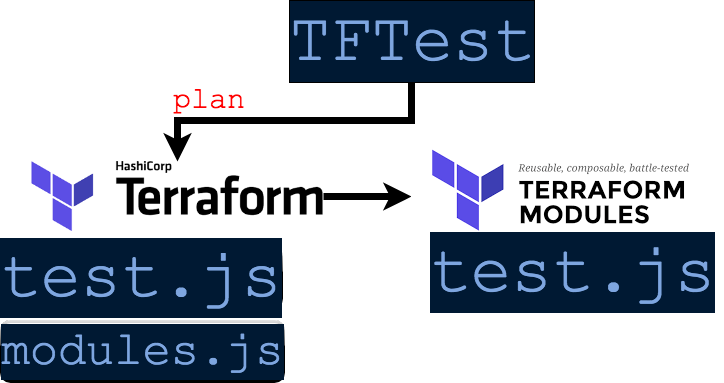
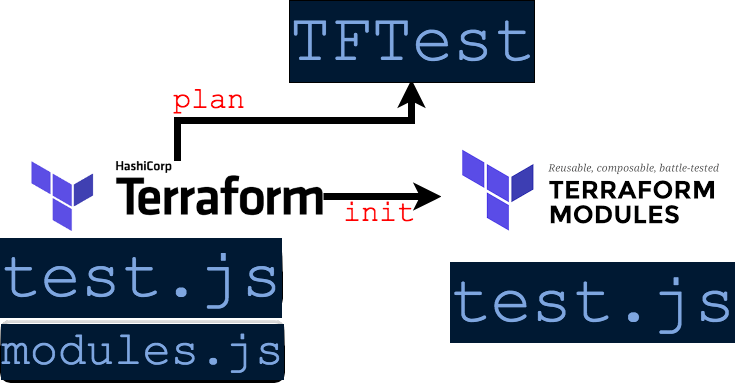
Added two diagrams for the workflows

diff --git a/README.md b/README.md
@@ -10,7 +10,11 @@ infrastructure.
 
 ## Workflow
 
-![image](tftest.png)
+### With Modules
+![tftest-workflow-with](tftest.png)
+
+### Without Modules
+![tftest-workflow-without](tftest-simple.png)
 
 ## How to implement tests
 1. Create a new module
